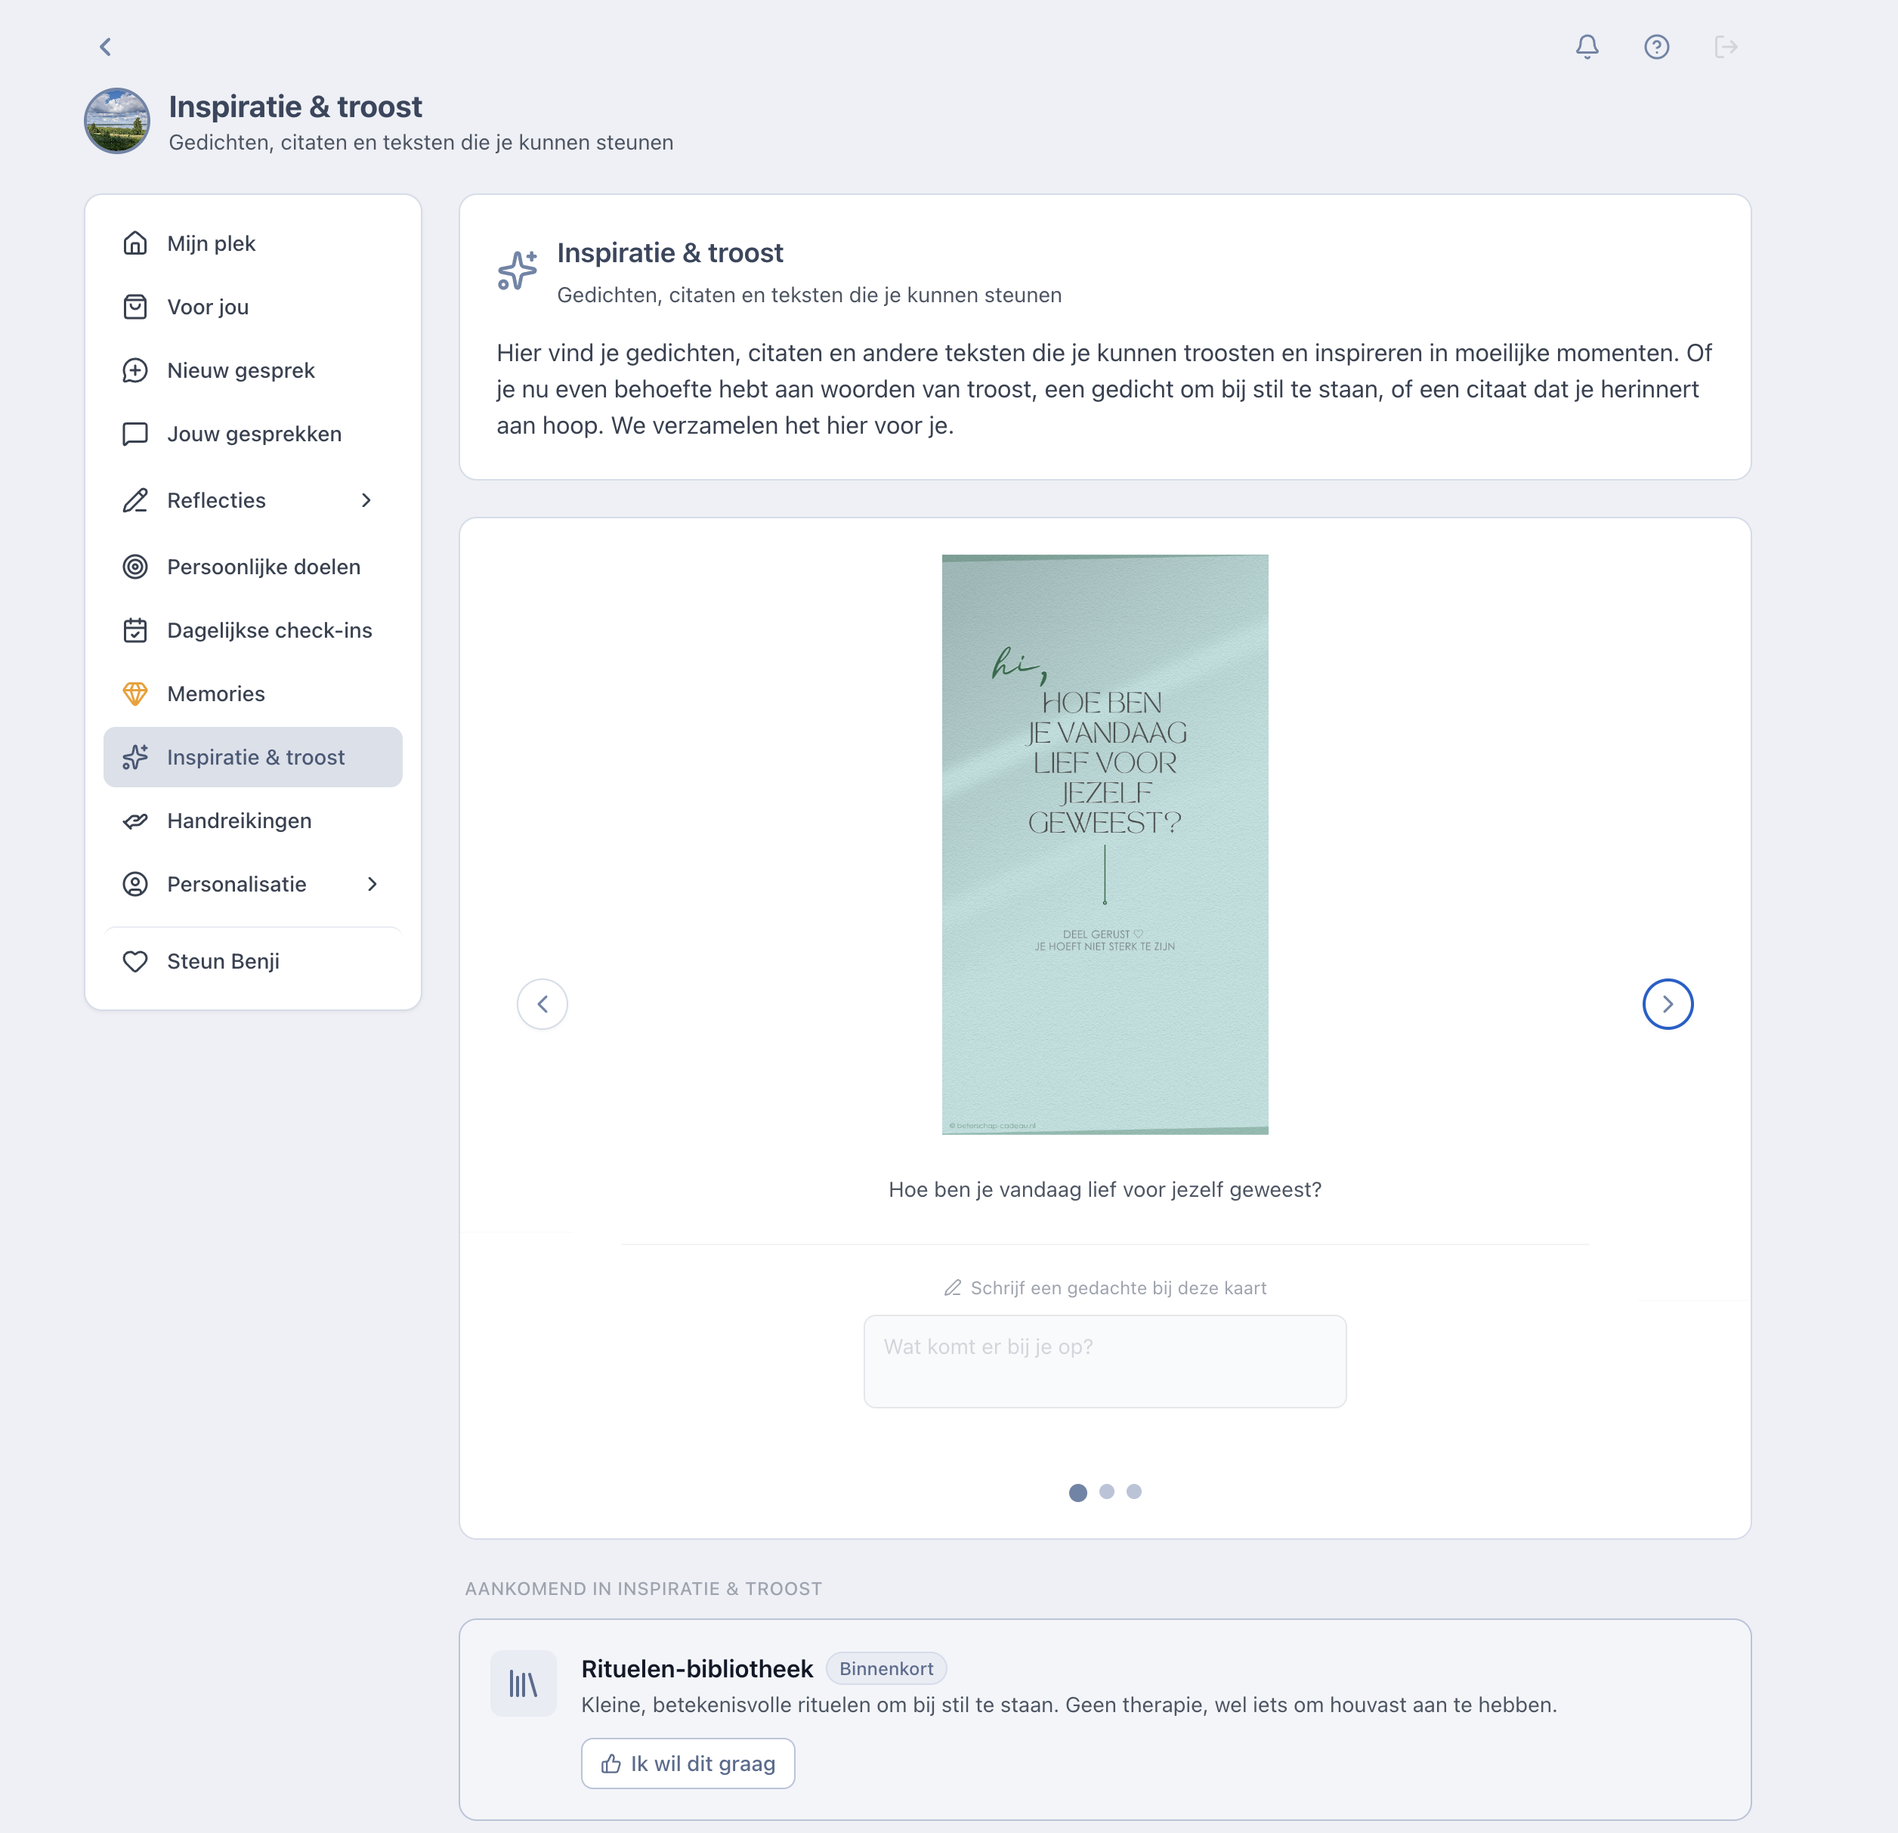
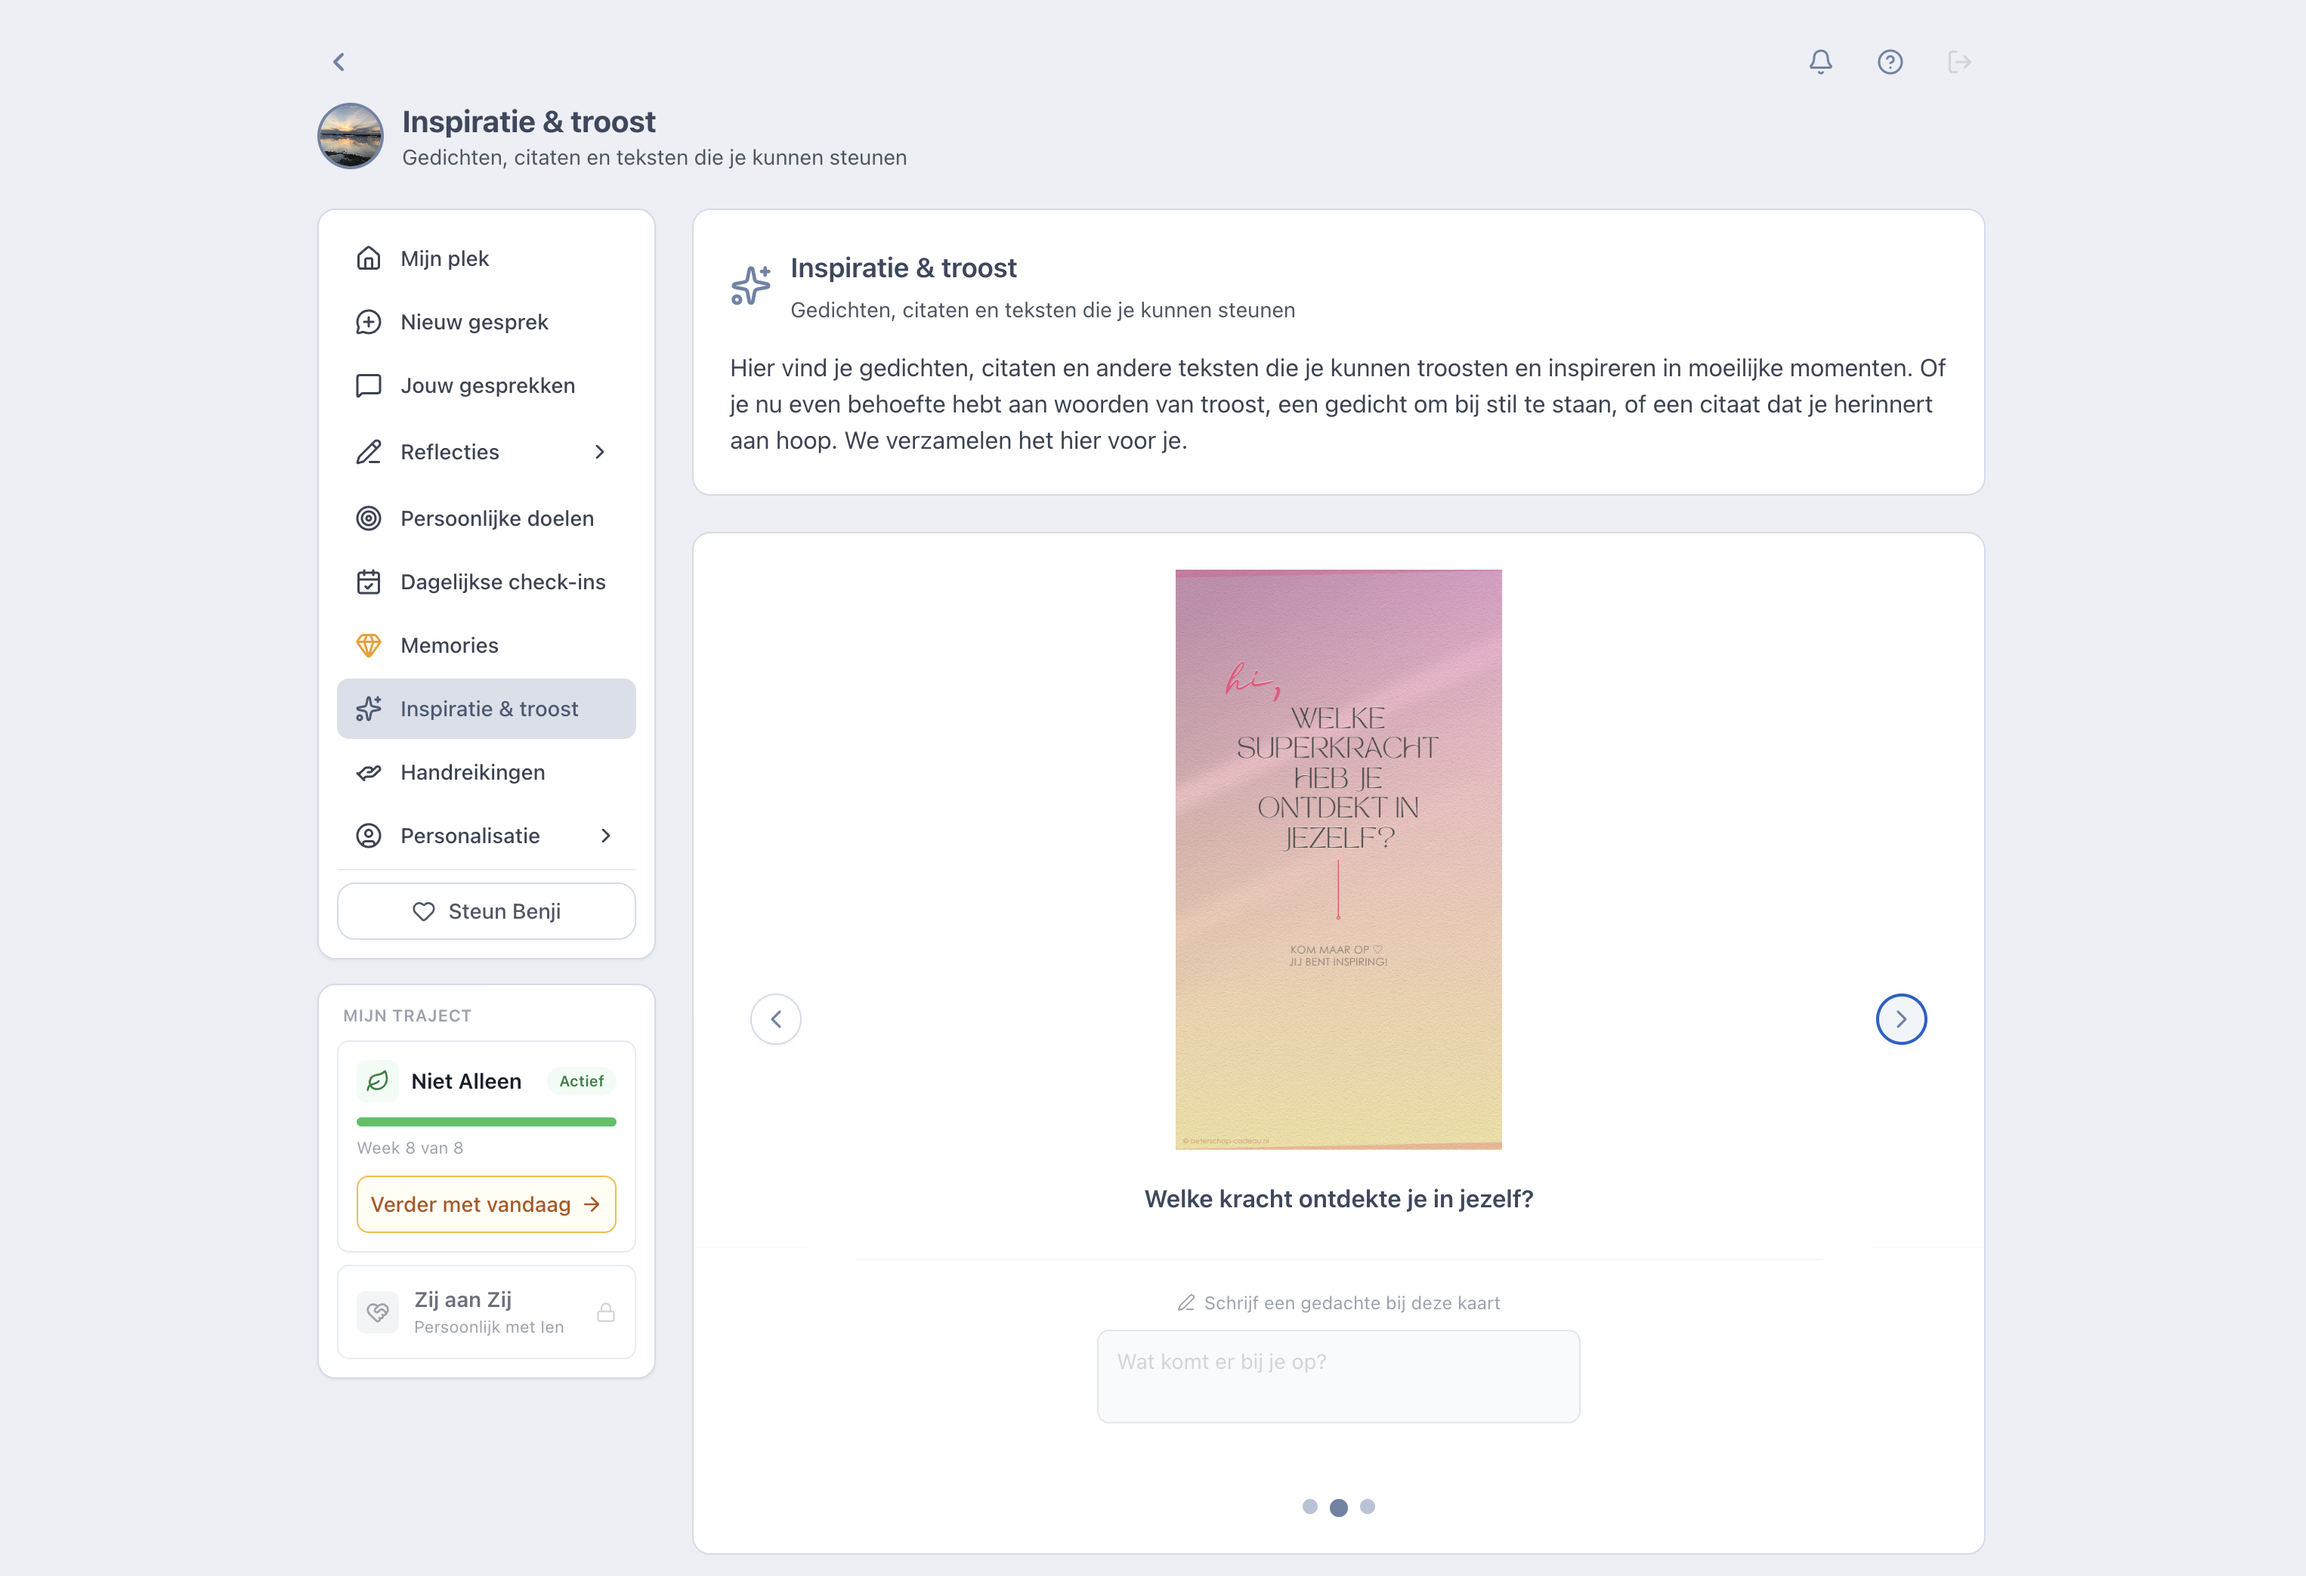
Screenshots vernieuwd + herordend (ZaZ carrousel + homepage)
Nieuwe screenshots: Mijn plek, Persoonlijke doelen (nieuw), Dagelijkse check-ins,
Memories, Inspiratie & troost. Volgorde zoals aangeleverd; Benji-chat ongewijzigd
maar achteraan; Handreikingen eruit.

- FeatureShowcase DEFAULT_FEATURES (homepage) herordend.
- ZaZ account-blok shots via gedeelde ACCOUNT_SHOTS / builder-arrays.
- updateAccountShotsSeed:updateAccountShots patcht alleen het account-blok op alle
  5 ZaZ-pagina's + homepage.screenshots (indien gezet), zonder overige content te
  raken.

Claude-Session: https://claude.ai/code/session_01XyFSyJzrDW6KDnjSLgDQFh

diff --git a/convex/updateAccountShotsSeed.ts b/convex/updateAccountShotsSeed.ts
@@ -1,0 +1,103 @@
+/**
+ * Werkt de screenshot-carrousels bij naar de nieuwe afbeeldingen + volgorde,
+ * zonder overige (admin-bewerkte) content te overschrijven:
+ *  - het "account"-blok op alle Zij aan Zij-pagina's (alleen de shots).
+ *  - de homepage-carrousel (pageContent.screenshots), alleen als die al gezet is.
+ *
+ * Benji-chat blijft ongewijzigd, maar staat nu achteraan.
+ * Draai: npx convex run updateAccountShotsSeed:updateAccountShots
+ */
+import { internalMutation } from "./_generated/server";
+
+const ZAZ_SLUGS = [
+  "zij-aan-zij",
+  "zij-aan-zij-kinderloos",
+  "zij-aan-zij-relatie",
+  "zij-aan-zij-eenzaamheid",
+  "zij-aan-zij-huisdier",
+];
+
+// Nieuwe volgorde in het account-blok (Benji-chat achteraan, ongewijzigde afbeelding).
+const NIEUWE_SHOTS = [
+  { img: "/images/screenshots/mijn-plek.png", label: "Mijn plek" },
+  { img: "/images/screenshots/persoonlijke-doelen.png", label: "Persoonlijke doelen" },
+  { img: "/images/screenshots/check-in.png", label: "Dagelijkse check-ins" },
+  { img: "/images/screenshots/memories.png", label: "Memories" },
+  { img: "/images/screenshots/inspiratie.png", label: "Inspiratie & troost" },
+  { img: "/images/zij-aan-zij/gesprek.jpg", label: "Gesprek met Benji" },
+];
+
+// Homepage-carrousel (zelfde volgorde; Benji-chat gebruikt hier het .png).
+const NIEUWE_FEATURES = [
+  { id: "mijn-plek", label: "Mijn plek", image: "/images/screenshots/mijn-plek.png", imageAlt: "Mijn plek overzicht" },
+  { id: "persoonlijke-doelen", label: "Persoonlijke doelen", image: "/images/screenshots/persoonlijke-doelen.png", imageAlt: "Persoonlijke doelen" },
+  { id: "check-in", label: "Dagelijkse check-ins", image: "/images/screenshots/check-in.png", imageAlt: "Dagelijkse check-in" },
+  { id: "memories", label: "Memories", image: "/images/screenshots/memories.png", imageAlt: "Memories" },
+  { id: "inspiratie", label: "Inspiratie & troost", image: "/images/screenshots/inspiratie.png", imageAlt: "Inspiratie en troost" },
+  { id: "gesprek", label: "Gesprek met Benji", image: "/images/screenshots/gesprek.png", imageAlt: "Gesprek met Benji" },
+];
+
+export const updateAccountShots = internalMutation({
+  args: {},
+  handler: async (ctx) => {
+    const resultaat: { doel: string; actie: string }[] = [];
+
+    // 1) ZaZ-pagina's: alleen het account-blok bijwerken.
+    for (const slug of ZAZ_SLUGS) {
+      const doc = await ctx.db
+        .query("blokPaginas")
+        .withIndex("by_slug", (q) => q.eq("slug", slug))
+        .first();
+      if (!doc) {
+        resultaat.push({ doel: slug, actie: "niet gevonden" });
+        continue;
+      }
+      let blocks: any[];
+      try {
+        blocks = JSON.parse(doc.blocksJson);
+      } catch {
+        resultaat.push({ doel: slug, actie: "blocksJson onleesbaar" });
+        continue;
+      }
+      let raak = false;
+      const nieuw = blocks.map((b) => {
+        if (b?.type === "account") {
+          raak = true;
+          return { ...b, shots: NIEUWE_SHOTS };
+        }
+        return b;
+      });
+      if (raak) {
+        await ctx.db.patch(doc._id, { blocksJson: JSON.stringify(nieuw), updatedAt: Date.now() });
+        resultaat.push({ doel: slug, actie: "account-blok bijgewerkt" });
+      } else {
+        resultaat.push({ doel: slug, actie: "geen account-blok" });
+      }
+    }
+
+    // 2) Homepage-carrousel: alleen bijwerken als er al een set is opgeslagen
+    //    (anders valt de homepage terug op de nieuwe DEFAULT_FEATURES in code).
+    const home = await ctx.db
+      .query("pageContent")
+      .withIndex("by_pageKey", (q) => q.eq("pageKey", "homepage"))
+      .unique();
+    if (home) {
+      try {
+        const content = JSON.parse(home.content) as Record<string, string>;
+        if (content.screenshots) {
+          content.screenshots = JSON.stringify(NIEUWE_FEATURES);
+          await ctx.db.patch(home._id, { content: JSON.stringify(content), updatedAt: Date.now() });
+          resultaat.push({ doel: "homepage.screenshots", actie: "bijgewerkt" });
+        } else {
+          resultaat.push({ doel: "homepage.screenshots", actie: "niet gezet (gebruikt default)" });
+        }
+      } catch {
+        resultaat.push({ doel: "homepage.screenshots", actie: "content onleesbaar" });
+      }
+    } else {
+      resultaat.push({ doel: "homepage.screenshots", actie: "geen homepage-content (gebruikt default)" });
+    }
+
+    return resultaat;
+  },
+});

diff --git a/convex/blokPaginasSeed.ts b/convex/blokPaginasSeed.ts
@@ -10,12 +10,24 @@ const IMG = {
   ien: "/images/ien-founder.png",
   ipad: "/images/zij-aan-zij/ipad-document.png",
   mijnPlek: "/images/screenshots/mijn-plek.png",
+  persoonlijkeDoelen: "/images/screenshots/persoonlijke-doelen.png",
   checkin: "/images/screenshots/check-in.png",
   inspiratie: "/images/screenshots/inspiratie.png",
   handreikingen: "/images/screenshots/handreikingen.png",
   memories: "/images/screenshots/memories.png",
   gesprek: "/images/zij-aan-zij/gesprek.jpg",
 };
+
+// Volgorde van de screenshots in het "account"-carousel-blok (gedeeld door alle
+// ZaZ-pagina's). Benji-chat blijft ongewijzigd, maar staat achteraan.
+const ACCOUNT_SHOTS = [
+  { img: IMG.mijnPlek, label: "Mijn plek" },
+  { img: IMG.persoonlijkeDoelen, label: "Persoonlijke doelen" },
+  { img: IMG.checkin, label: "Dagelijkse check-ins" },
+  { img: IMG.memories, label: "Memories" },
+  { img: IMG.inspiratie, label: "Inspiratie & troost" },
+  { img: IMG.gesprek, label: "Gesprek met Benji" },
+];
 
 const INTAKE = "intake"; // sentinel: renderer maakt hier /lp/<slug>/kennismaken van
 
@@ -138,14 +150,7 @@ export const zijAanZijBlocks = () => [
     eyebrow: "Een blik op je eigen plek",
     titel: "Hier komt alles samen.",
     lead: "Je gesprekken, je check-ins, je herinneringen en de handreikingen van Benji: alles staat bij elkaar op één plek, ook na de acht weken.",
-    shots: [
-      { img: IMG.mijnPlek, label: "Mijn plek" },
-      { img: IMG.checkin, label: "Dagelijkse check-ins" },
-      { img: IMG.inspiratie, label: "Inspiratie & troost" },
-      { img: IMG.handreikingen, label: "Handreikingen" },
-      { img: IMG.memories, label: "Memories" },
-      { img: IMG.gesprek, label: "Gesprek met Benji" },
-    ],
+    shots: ACCOUNT_SHOTS,
   },
 
   {
@@ -373,14 +378,7 @@ export const kinderloosBlocks = () => [
     eyebrow: "Een blik op je eigen plek",
     titel: "Hier komt alles samen.",
     lead: "Je gesprekken, je check-ins, je herinneringen en de handreikingen van Benji: alles staat bij elkaar op één plek, ook na de acht weken.",
-    shots: [
-      { img: IMG.mijnPlek, label: "Mijn plek" },
-      { img: IMG.checkin, label: "Dagelijkse check-ins" },
-      { img: IMG.inspiratie, label: "Inspiratie & troost" },
-      { img: IMG.handreikingen, label: "Handreikingen" },
-      { img: IMG.memories, label: "Memories" },
-      { img: IMG.gesprek, label: "Gesprek met Benji" },
-    ],
+    shots: ACCOUNT_SHOTS,
   },
 
   {

diff --git a/app/home-concept/FeatureShowcase.tsx b/app/home-concept/FeatureShowcase.tsx
@@ -6,12 +6,12 @@ import Image from "next/image";
 export type FeatureItem = { id: string; label: string; image: string; imageAlt: string };
 
 const DEFAULT_FEATURES: FeatureItem[] = [
-  { id: "gesprek",      label: "Gesprek met Benji",    image: "/images/screenshots/gesprek.png",      imageAlt: "Gesprek met Benji" },
-  { id: "mijn-plek",   label: "Mijn plek",             image: "/images/screenshots/mijn-plek.png",    imageAlt: "Mijn plek overzicht" },
-  { id: "memories",    label: "Memories",              image: "/images/screenshots/memories.png",     imageAlt: "Memories" },
-  { id: "inspiratie",  label: "Inspiratie & troost",   image: "/images/screenshots/inspiratie.png",   imageAlt: "Inspiratie en troost" },
-  { id: "check-in",    label: "Dagelijkse check-ins",  image: "/images/screenshots/check-in.png",     imageAlt: "Dagelijkse check-in" },
-  { id: "handreikingen", label: "Handreikingen",       image: "/images/screenshots/handreikingen.png",imageAlt: "Handreikingen" },
+  { id: "mijn-plek",           label: "Mijn plek",            image: "/images/screenshots/mijn-plek.png",           imageAlt: "Mijn plek overzicht" },
+  { id: "persoonlijke-doelen", label: "Persoonlijke doelen",  image: "/images/screenshots/persoonlijke-doelen.png", imageAlt: "Persoonlijke doelen" },
+  { id: "check-in",            label: "Dagelijkse check-ins", image: "/images/screenshots/check-in.png",            imageAlt: "Dagelijkse check-in" },
+  { id: "memories",            label: "Memories",             image: "/images/screenshots/memories.png",            imageAlt: "Memories" },
+  { id: "inspiratie",          label: "Inspiratie & troost",  image: "/images/screenshots/inspiratie.png",          imageAlt: "Inspiratie en troost" },
+  { id: "gesprek",             label: "Gesprek met Benji",    image: "/images/screenshots/gesprek.png",             imageAlt: "Gesprek met Benji" },
 ];
 
 export function FeatureShowcase({ features }: { features?: FeatureItem[] }) {

diff --git a/convex/blokPaginasZazVerliestypeSeed.ts b/convex/blokPaginasZazVerliestypeSeed.ts
@@ -18,6 +18,7 @@ const IMG = {
   ien: "/images/ien-founder.png",
   ipad: "/images/zij-aan-zij/ipad-document.png",
   mijnPlek: "/images/screenshots/mijn-plek.png",
+  persoonlijkeDoelen: "/images/screenshots/persoonlijke-doelen.png",
   checkin: "/images/screenshots/check-in.png",
   inspiratie: "/images/screenshots/inspiratie.png",
   handreikingen: "/images/screenshots/handreikingen.png",
@@ -153,10 +154,10 @@ const bouwBlocks = (cfg: Cfg): any[] => [
     lead: "Je gesprekken, je check-ins, je herinneringen en de handreikingen van Benji: alles staat bij elkaar op één plek, ook na de acht weken.",
     shots: [
       { img: IMG.mijnPlek, label: "Mijn plek" },
+      { img: IMG.persoonlijkeDoelen, label: "Persoonlijke doelen" },
       { img: IMG.checkin, label: "Dagelijkse check-ins" },
-      { img: IMG.inspiratie, label: "Inspiratie & troost" },
-      { img: IMG.handreikingen, label: "Handreikingen" },
       { img: IMG.memories, label: "Memories" },
+      { img: IMG.inspiratie, label: "Inspiratie & troost" },
       { img: IMG.gesprek, label: "Gesprek met Benji" },
     ],
   },
